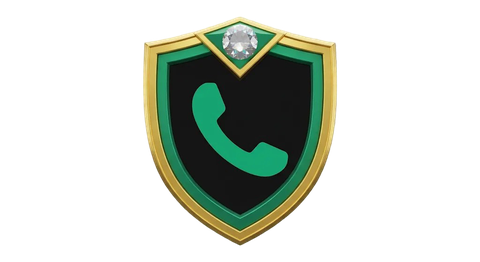
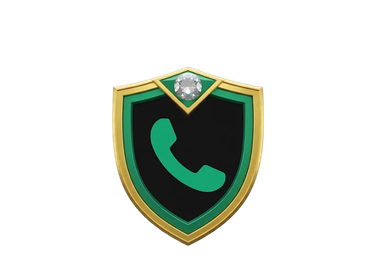
Prompt 521: strip card wrapper from Dials tiles, normalize shield scale
Badge tile no longer has a border/background/shadow box - just the
image and label floating free. Unlocked glow moves to a drop-shadow on
the image itself instead of a box shadow.

Re-resized all 6 tier PNGs from the new per-tier-aspect-ratio source
(preserving aspect ratio to a fixed 262px height, not a fixed canvas)
so every tier's shield renders at the same pixel size regardless of
how much extra canvas the wings/crown occupy.

Changed region(s): [[0.2926, 0.0611, 0.7021, 0.9466]]

diff --git a/src/pages/MyGoals.jsx b/src/pages/MyGoals.jsx
@@ -84,33 +84,35 @@ function ProgressTile({ label, value, target }) {
 // Prompt 521 — Dials' own tile, using real per-tier illustrated art
 // (`badge-dials-tier1..6`, escalating ornamentation baked into each
 // image) rather than the shared SVG template the other 4 categories use.
-// Brayden tried the SVG shield for Dials too (twice — a first pass, then
-// a redrawn-ornaments pass verified via real screenshot) and, after
-// seeing both live, decided he wants the original illustrated PNG look
-// back specifically for Dials — a final call, not another round of SVG
-// tweaks. Restored verbatim from commit `231a34f`, the last version he
-// confirmed he liked. Keeps `BadgePill`'s locked/unlocked philosophy
-// (Prompt 452: grayscale silhouette vs. color+glow) applied to the image
-// instead of an icon glyph, and reuses the exact green the rest of the
-// original badge system used (`#26b37a`/`#1f8a5f`). No named tier scheme
-// exists anywhere in this codebase or the art-generation docs, so tier
-// names are the plain ordinal the asset filenames themselves already use.
+// No card/box wrapper — no border, background, or shadow on the outer
+// div — just the badge floating free with its label; the "lights up
+// when unlocked" effect is a `drop-shadow` glow on the image itself
+// (Brayden's own explicit ask after seeing the boxed version live: the
+// box was competing with the art instead of framing it). Locked state
+// keeps the same grayscale/opacity-35 silhouette treatment (Prompt 452's
+// philosophy) applied to the image directly. No named tier scheme exists
+// anywhere in this codebase or the art-generation docs, so tier names
+// are the plain ordinal the asset filenames themselves already use.
+// Source PNGs are no longer a uniform canvas size — each tier's own
+// width/height ratio is deliberately different (wider canvases for
+// tiers whose wings/crown extend the artwork) specifically so scaling
+// to a fixed CSS height (`h-14 w-auto`) renders every tier's shield at
+// the same pixel size, rather than the shield shrinking on tiers with
+// more surrounding ornamentation.
 function DialBadgeTile({ tier, threshold, value }) {
   const unlocked = value >= threshold
   return (
     <div
       title={`Tier ${tier} — ${threshold.toLocaleString()} total dials`}
-      className={clsx(
-        'flex w-28 flex-col items-center gap-2 rounded-card border p-3 text-center transition-all',
-        unlocked
-          ? 'border-[#1f8a5f]/30 bg-gradient-to-b from-[#1f8a5f]/10 to-transparent shadow-[0_0_16px_rgba(31,138,95,0.3)]'
-          : 'border-line bg-surface'
-      )}
+      className="flex w-28 flex-col items-center gap-2 text-center"
     >
       <img
         src={`/badges/badge-dials-tier${tier}.png`}
         alt={`Dials Tier ${tier} badge`}
-        className={clsx('h-14 w-auto', !unlocked && 'grayscale opacity-35')}
+        className={clsx(
+          'h-14 w-auto',
+          unlocked ? 'drop-shadow-[0_0_10px_rgba(31,138,95,0.6)]' : 'grayscale opacity-35'
+        )}
       />
       <div>
         <p className={clsx('font-sans text-xs font-semibold', unlocked ? 'text-fg-primary' : 'text-fg-faint')}>
